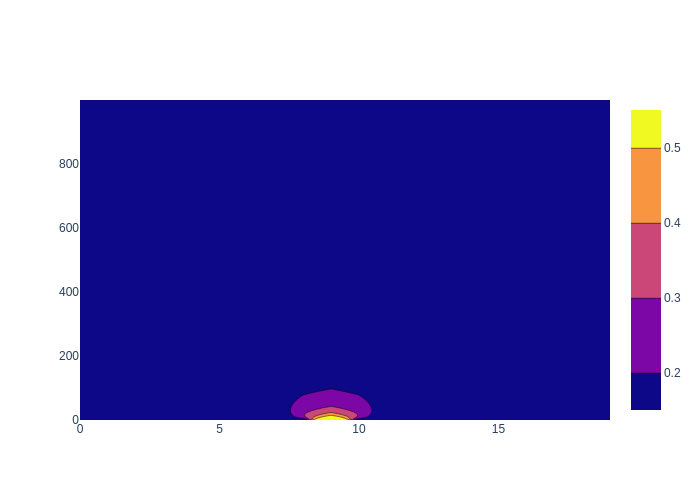
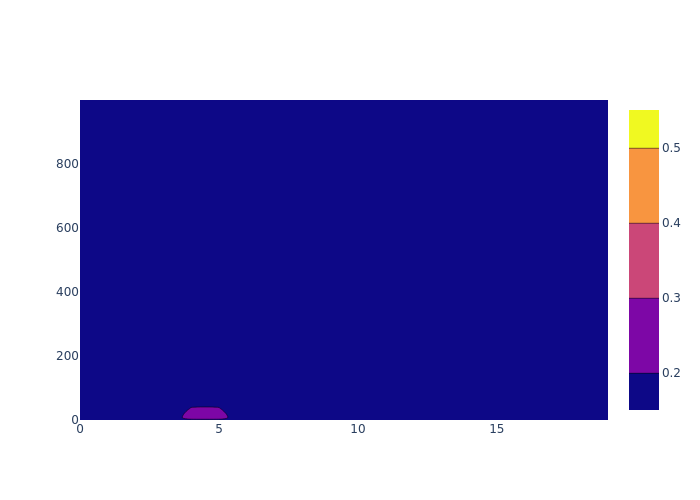
ipad

diff --git a/Übung_3/ubung3.py b/Übung_3/ubung3.py
@@ -52,6 +52,8 @@ def gauss():
        	        dez = gg*((dx*i)**gk)
                 c[i-1,j-1,k-1] =(Q/(2* math.pi*dey*dez*ubalken))*math.exp((-((j*dy)-yq)**2)/(2*dey**2)) *(math.exp((-((k*dz)-h)**2)/(2*dez**2)) +math.exp((-((k*dz)+h)**2)/(2*dez**2)))
     return
+cdc=[]
+
 cd=np.zeros((nx, nz))
 def gauss2d():
     Q= 150 #!540 kg/h also 5.4e+8mg/h und so 150000 
@@ -60,11 +62,13 @@ def gauss2d():
     zq= 100
     xq=0
     yq=250
-    for i in range( 1, nx+1):
-        for j in range(1,nz+1):
+    for i,indexei in zip(range( 1, nx,2),(range(0,int(nx/2)))):
+        for j,indexej in zip(range(1,nz+1,2),(range(0,int(nz/2)))):
        	    dez = math.sqrt(2*sigw**2*tl*((i/ubalken)- ubalken +ubalken*math.exp(- (i/(ubalken*tl)))))
-            cd[i-1,j-1] =(Q/(2* math.pi*dez*ubalken)) *(math.exp((-((j*dz)-h)**2)/(2*dez**2)) +math.exp((-((j*dz)+h)**2)/(2*dez**2)))
+            cd[indexei,indexej] =(Q/(2* math.pi*dez*ubalken)) *(math.exp((-((j*dz)-h)**2)/(2*dez**2)) +math.exp((-((j*dz)+h)**2)/(2*dez**2)))
+            #cdc.append(co)
     return
+
 def concentration(nj):
     dx=2
     dz=2
@@ -188,12 +192,12 @@ fig = go.Figure(data =
             size=0.1,
         ),
     ))
-fig.show()
+#fig.show()
 fig.write_image("Übung_3/contur.png")
 #fig.close()
 
 gauss2d()
-
+print(np.nanmax(cd))
 fig = go.Figure(data =
     go.Contour(
         z=cd,
@@ -205,5 +209,5 @@ fig = go.Figure(data =
             size=0.1,
         ),
     ))
-fig.show()
+#fig.show()
 fig.write_image("Übung_3/conturgaus.png")
